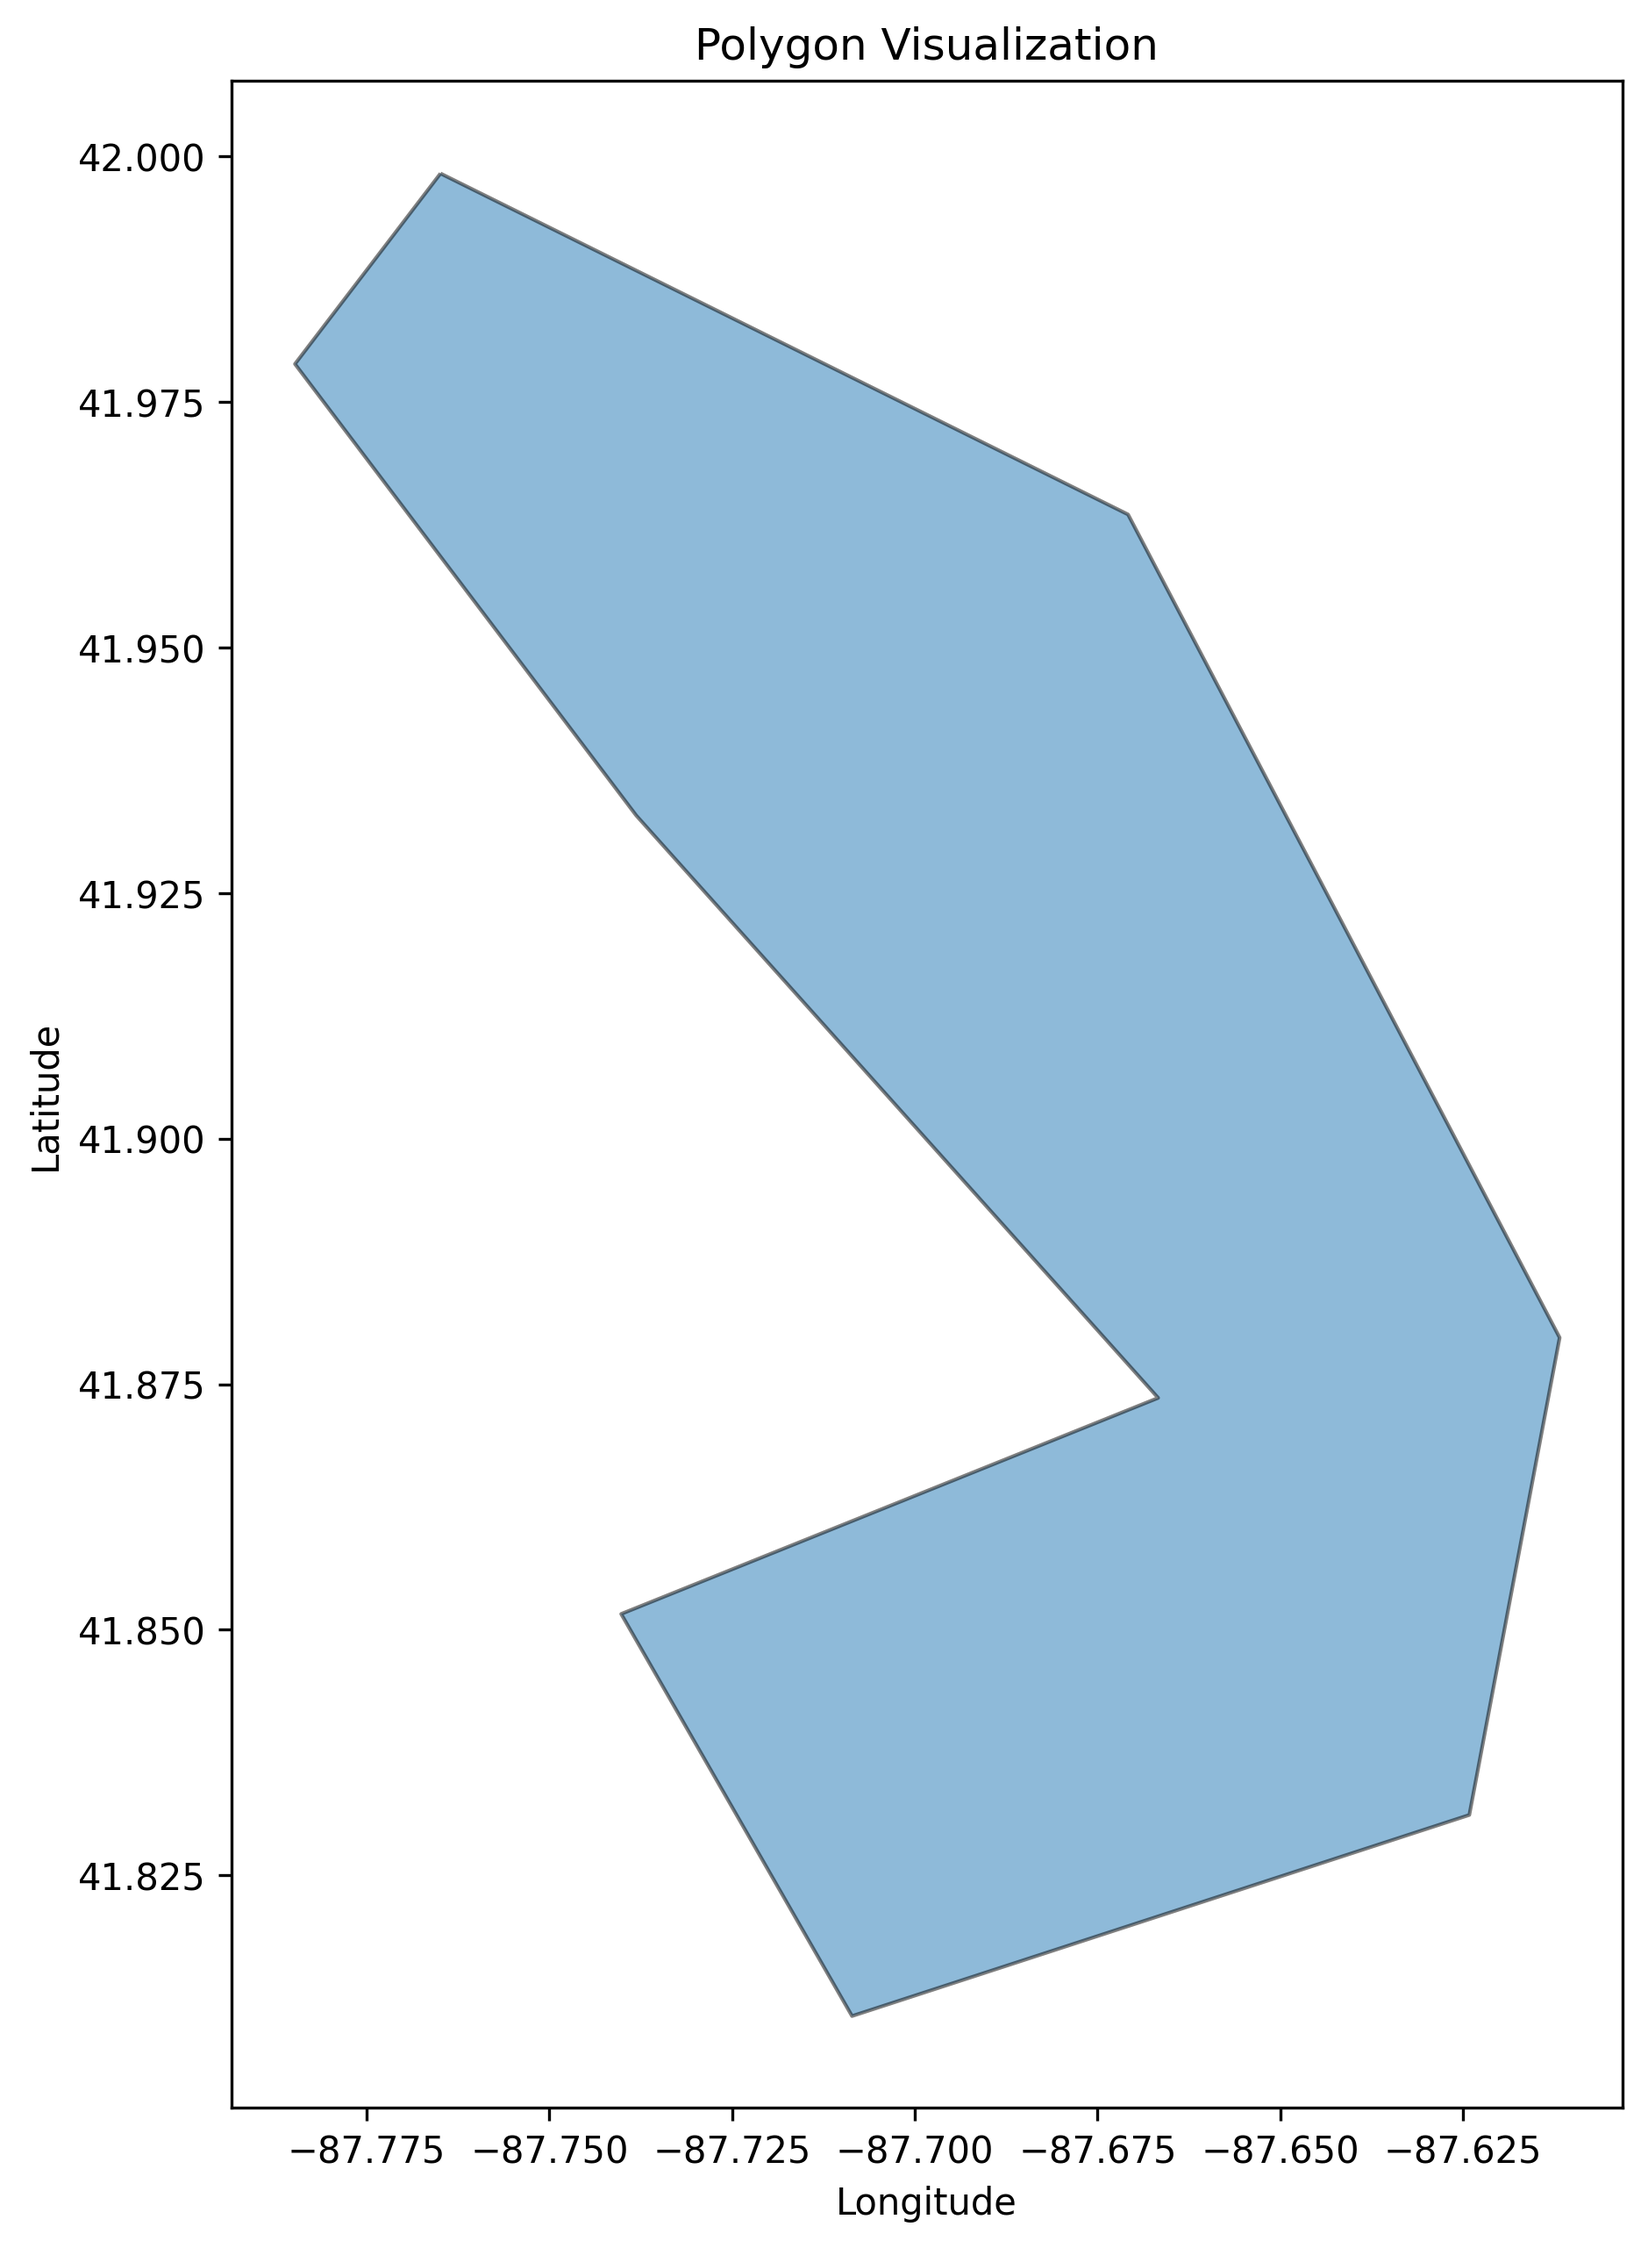
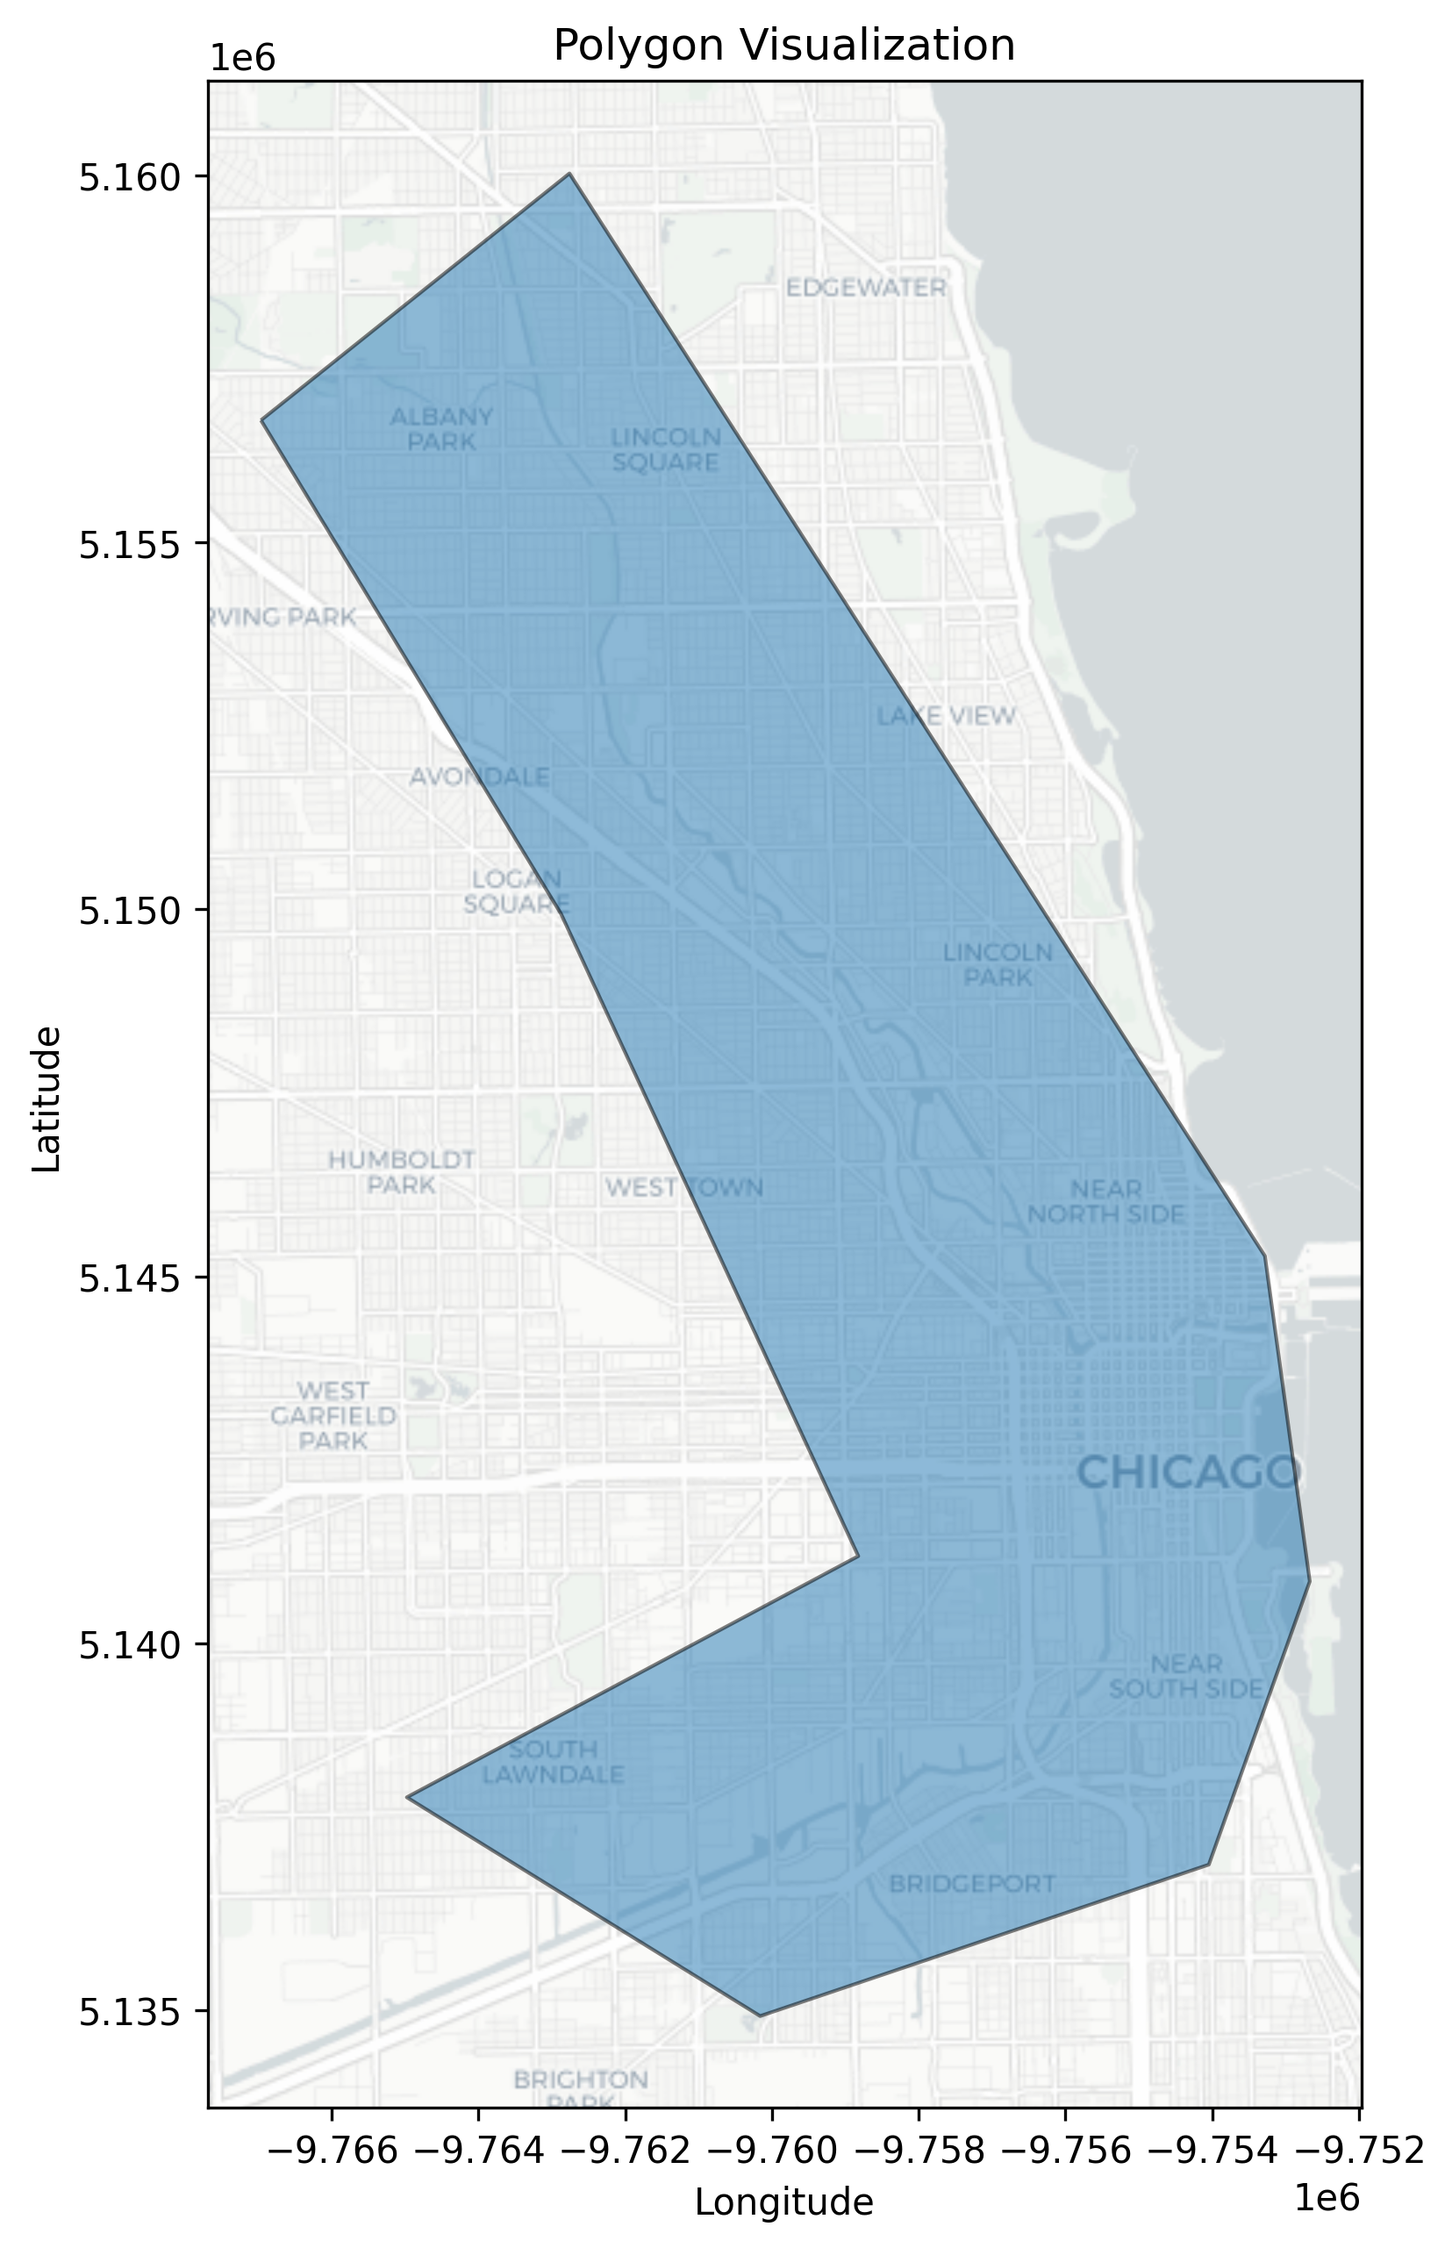
fixes server crash

diff --git a/app.py b/app.py
@@ -5,12 +5,16 @@ import json
 from polygon_visualizer import create_polygon_from_wkt_coords, visualize_and_save_polygon
 import os
 import re
+from werkzeug.serving import is_running_from_reloader
+import matplotlib.pyplot as plt
 
 app = Flask(__name__)
 
+# Create a single geolocator instance
+geolocator = Nominatim(user_agent="my_polygon_app")
+
 def get_location_coords(location_name):
     try:
-        geolocator = Nominatim(user_agent="my_polygon_app")
         location = geolocator.geocode(location_name)
         if location:
             return [location.latitude, location.longitude]
@@ -48,22 +52,22 @@ def search_location():
 
 @app.route('/save_polygon', methods=['POST'])
 def save_polygon():
-    data = request.get_json()
-    polygon_coords = data.get('coordinates')
-    polygon_name = data.get('name', 'unnamed_polygon')
-    
-    # Sanitize the filename
-    safe_name = sanitize_filename(polygon_name)
-    
-    # Ensure the polygon is closed by adding the first point at the end if needed
-    if polygon_coords[0] != polygon_coords[-1]:
-        polygon_coords.append(polygon_coords[0])
-    
-    # Convert coordinates to WKT format
-    coords_str = ','.join([f'{coord[1]} {coord[0]}' for coord in polygon_coords])
-    wkt_polygon = f'POLYGON(({coords_str}))'
-    
     try:
+        data = request.get_json()
+        polygon_coords = data.get('coordinates')
+        polygon_name = data.get('name', 'unnamed_polygon')
+        
+        # Sanitize the filename
+        safe_name = sanitize_filename(polygon_name)
+        
+        # Ensure the polygon is closed
+        if polygon_coords[0] != polygon_coords[-1]:
+            polygon_coords.append(polygon_coords[0])
+        
+        # Convert coordinates to WKT format
+        coords_str = ','.join([f'{coord[1]} {coord[0]}' for coord in polygon_coords])
+        wkt_polygon = f'POLYGON(({coords_str}))'
+        
         # Create and save the polygon visualization
         polygon_gdf = create_polygon_from_wkt_coords(wkt_polygon)
         save_result = visualize_and_save_polygon(polygon_gdf, safe_name)
@@ -82,5 +86,17 @@ def save_polygon():
             'message': str(e)
         })
 
+def cleanup():
+    """Clean up resources when the server shuts down."""
+    plt.close('all')
+
 if __name__ == '__main__':
-    app.run(debug=True) 
+    # Register cleanup function
+    import atexit
+    atexit.register(cleanup)
+    
+    # Only run in non-debug mode or if we're the main process
+    if not is_running_from_reloader() or os.environ.get('WERKZEUG_RUN_MAIN') == 'true':
+        app.run(debug=True, threaded=True)
+    else:
+        app.run(debug=True) 

diff --git a/polygon_visualizer.py b/polygon_visualizer.py
@@ -2,7 +2,9 @@ import geopandas as gpd
 from shapely import wkt
 import matplotlib.pyplot as plt
 import os
-import numpy as np
+import matplotlib
+# Use Agg backend to prevent thread issues
+matplotlib.use('Agg')
 
 def ensure_save_directory():
     """Create the save directory if it doesn't exist."""
@@ -48,10 +50,10 @@ def visualize_and_save_polygon(gdf, output_name):
     ax.clear()
     gdf_web.plot(ax=ax, alpha=0.5, edgecolor='black')
     
-    # Add the basemap
+    # Add the basemap with minimal style
     ctx.add_basemap(
         ax,
-        source=ctx.providers.OpenStreetMap.Mapnik,
+        source=ctx.providers.CartoDB.Positron,  # Using CartoDB Positron for minimal style
         attribution=False  # Remove attribution text for a cleaner look
     )
     
@@ -61,7 +63,7 @@ def visualize_and_save_polygon(gdf, output_name):
     ax.set_ylabel('Latitude')
     
     plt.savefig(png_path, bbox_inches='tight', dpi=300)
-    plt.close()
+    plt.close('all')  # Close all figures to prevent memory leaks
     
     return {
         'geojson_path': geojson_path,
